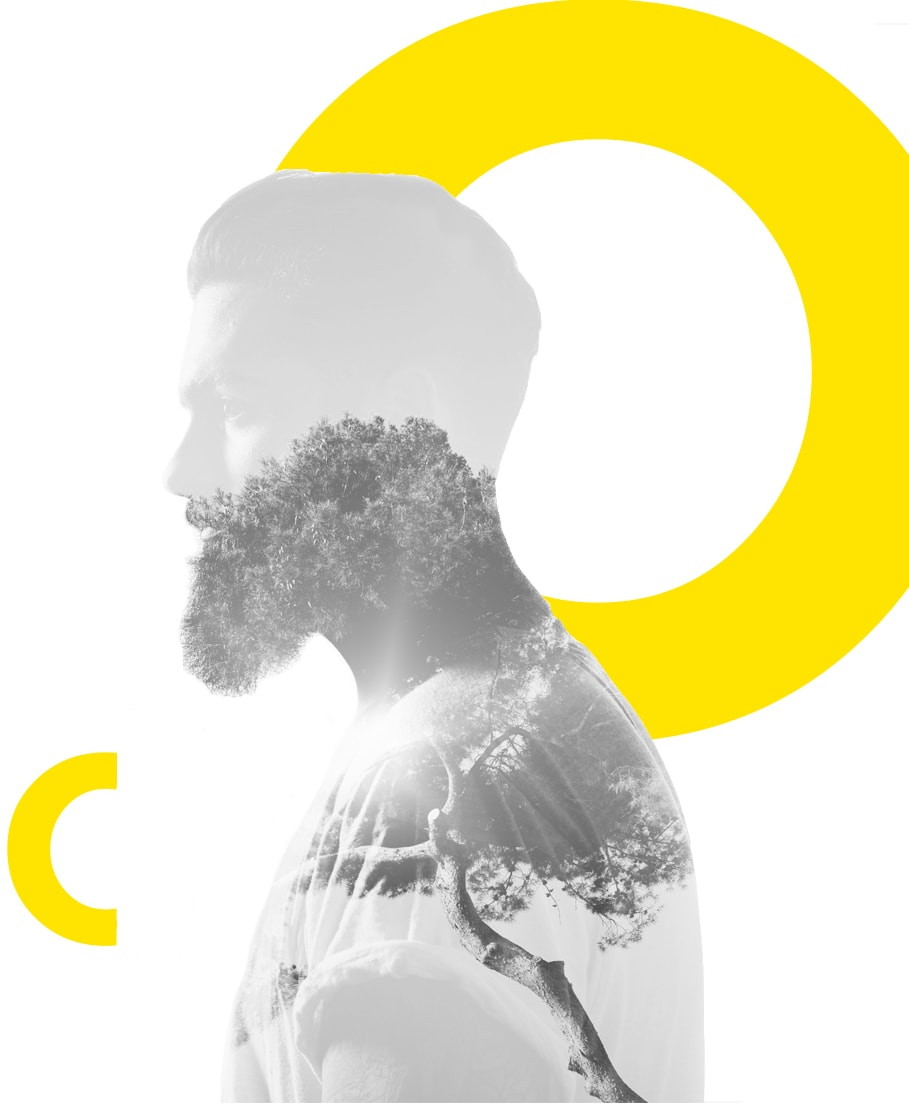
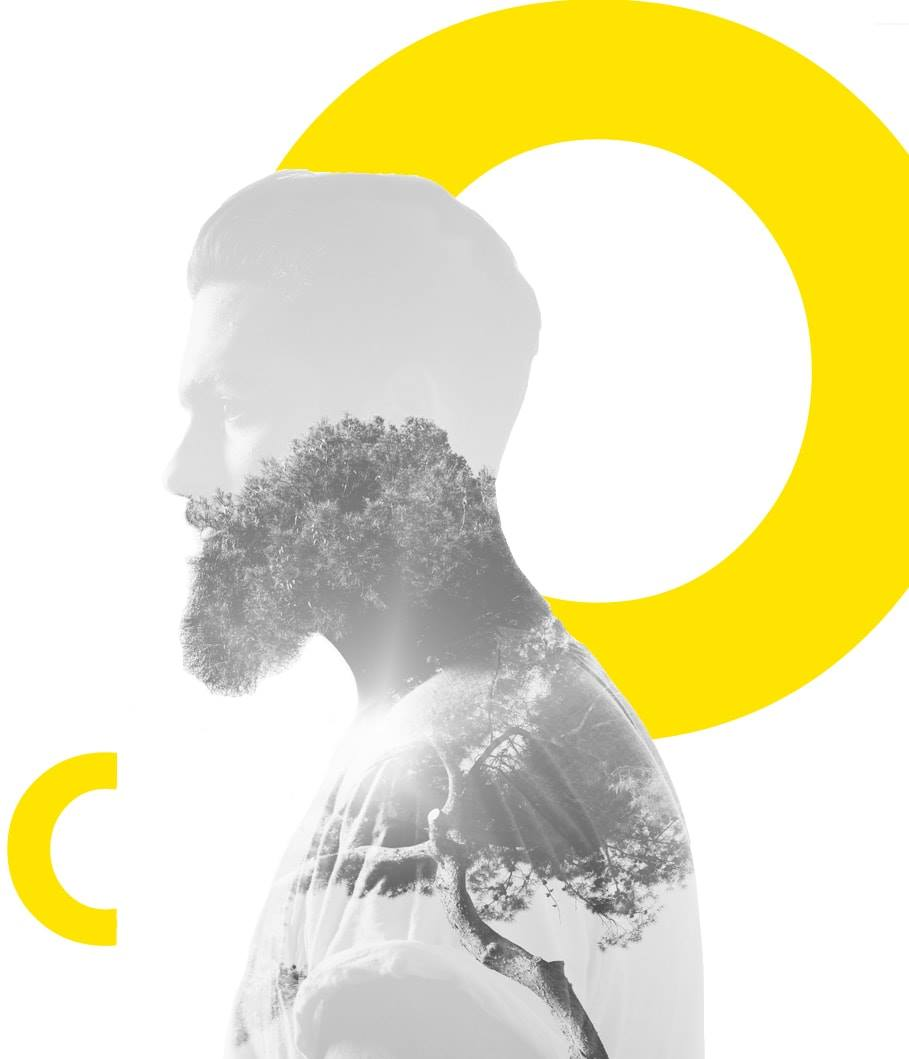
background corrections

diff --git a/dist/style.css b/dist/style.css
@@ -59,10 +59,10 @@ body {
 .page-header__container {
   padding-left: 20%;
   padding-right: 20%;
-  background-image: url(images/background85a29af3db00019165e6c304b377ec0c.jpg);
+  background-image: url(images/backgrounddf5cf6995c2704f6ad15fd236df2e248.jpg);
   background-repeat: no-repeat;
-  background-position: 115% 30%;
-  background-size: 58%;
+  background-position: center right;
+  background-size: contain;
 }
 
 .page-header__text {
@@ -245,8 +245,8 @@ body {
 }
 
 .about__container {
-  padding-left: 390px;
-  padding-right: 390px;
+  padding-left: 20%;
+  padding-right: 20%;
 }
 
 .about__numbers-header {

diff --git a/src/scss/header.scss b/src/scss/header.scss
@@ -17,8 +17,8 @@
   padding-right: 20%;
   background-image: url("../Marvel/src/img/background.jpg");
   background-repeat: no-repeat;
-  background-position: 115% 30%;
-  background-size: 58%;
+  background-position: center right;
+  background-size: contain;
 }
 .page-header__text {
   font-size: 14px;

diff --git a/src/scss/about.scss b/src/scss/about.scss
@@ -99,8 +99,8 @@
   }
 }
 .about__container {
-  padding-left: 390px;
-  padding-right: 390px;
+  padding-left: 20%;
+  padding-right: 20%;
 }
 .about__numbers-header {
   font-size: 30px;
